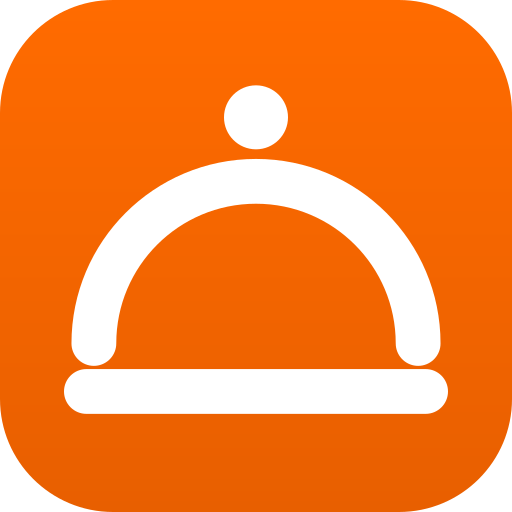
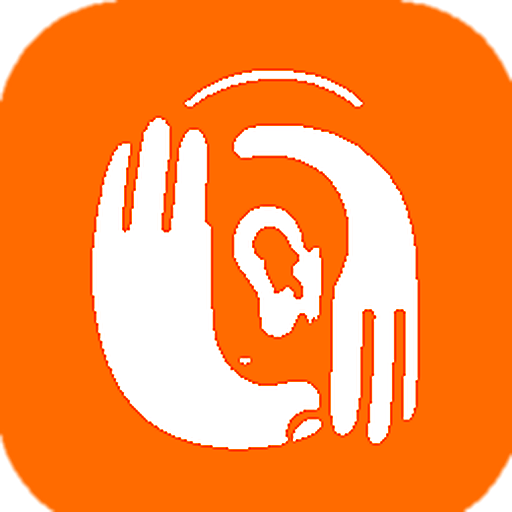
Rebrand a Oído + nuevo isotipo (mano + oreja) en toda la app (#118)
* rebrand: Staffya pasa a llamarse Oido

El nombre nuevo sale del diseñador y es un acierto: "¡Oído!" es lo que grita
la cocina cuando recibe una comanda -- significa "te escuche y ya estoy en
eso". Resuelve en UNA palabra la tension que ART_DIRECTION §2.3 define como el
problema central de la marca: es confirmacion (confiable) y es accion
(rapido) al mismo tiempo. Y al ser jerga interna del rubro da una credibilidad
que ninguna marca inventada consigue.

29 archivos de codigo fuente. Texto visible, metadatos, manifest, emails
transaccionales y copy de producto.

## Lo que NO se toco, a proposito

- `staffya-backend.onrender.com`: es el nombre REAL del servicio en Render.
  Renombrarlo en el codigo rompe la app en produccion. Se cambia el dia que se
  recree el servicio, no antes.
- `staffya_current_location` y demas claves de sessionStorage: cambiarlas
  descartaria el estado de los usuarios que ya la tienen abierta.
- Los emails de fixtures de tests (@staffya.com): ruido sin valor.

## Detalle de marca

En texto visible el wordmark lleva tilde ("oído"), como en el diseño. Sin
tilde queda solo en contextos tecnicos (ids, clases, slugs).

## Pendiente

El dominio sigue apuntando a staffya.com.ar en robots, sitemap, metadataBase y
la pagina publica de turno. No se cambia a ciegas porque no se sabe si el
dominio nuevo esta registrado -- apuntar el sitemap a un dominio inexistente
es peor que dejarlo.
[…]

diff --git a/frontend/components/Logo.tsx b/frontend/components/Logo.tsx
@@ -1,70 +1,44 @@
-"use client";
-
-import { useId } from "react";
-
 /**
- * Marca Staffya: "la cloche" (campana de servicio), símbolo universal del
- * salón gastronómico premium. Geometría fija (spec de marca): pomo, domo y
- * plato en blanco. El mismo degradé naranja que --color-primary /
- * --color-primary-strong en globals.css (antes el SVG usaba el naranja
- * default de Tailwind, que no coincidía con el token real de la app).
+ * Marca Oído: mano ahuecada sobre la oreja (gesto de "¡oído!, va la orden"),
+ * placeholder rasterizado a partir del ícono real del diseñador — no es el
+ * SVG vectorial final (ver docs/BRIEF_IDENTIDAD_VISUAL.md y el pendiente de
+ * reemplazo por el export vectorial del diseñador). El asset fuente nunca
+ * se usa a más de 48px en el código, así que el raster no pierde nitidez.
  *
- * `LogoGlyph` es sólo el trazo (pomo + domo + plato), sin tile de fondo —
- * lo reusa SplashScreen sobre su propia tarjeta blanca. `LogoMark` agrega el
- * tile naranja (uso estándar: Navbar, favicon/app icons). `Logo` agrega el
- * wordmark y es el default export que ya consumen Navbar, login/register/
- * recuperar/restablecer y la landing.
+ * `LogoGlyph` es sólo el trazo (mano + oreja), sin tile de fondo — se tiñe
+ * del color pedido vía CSS mask (`logo-figure.png` sólo aporta la silueta
+ * en su canal alfa). Lo reusa SplashScreen/EmptyState sobre superficie
+ * neutra. `LogoMark` agrega el tile naranja ya horneado (uso estándar:
+ * Navbar, favicon/app icons). `Logo` agrega el wordmark y es el default
+ * export que ya consumen Navbar, login/register/recuperar/restablecer y la
+ * landing.
  */
 export function LogoGlyph({ size = 28, color = "#fff" }: { size?: number; color?: string }) {
   return (
-    <svg width={size} height={size} viewBox="0 0 24 24" fill="none" xmlns="http://www.w3.org/2000/svg" aria-hidden>
-      <circle cx="12" cy="5.5" r="1.5" fill={color} />
-      <path
-        d="M4.4 16.1 A 7.6 7.6 0 0 1 19.6 16.1"
-        stroke={color}
-        strokeWidth="2.1"
-        strokeLinecap="round"
-        fill="none"
-      />
-      <rect x="3" y="17.3" width="18" height="2.1" rx="1.05" fill={color} />
-    </svg>
+    <span
+      role="img"
+      aria-label="Oído"
+      style={{
+        display: "inline-block",
+        width: size,
+        height: size,
+        backgroundColor: color,
+        WebkitMaskImage: "url(/logo-figure.png)",
+        maskImage: "url(/logo-figure.png)",
+        WebkitMaskSize: "contain",
+        maskSize: "contain",
+        WebkitMaskRepeat: "no-repeat",
+        maskRepeat: "no-repeat",
+        WebkitMaskPosition: "center",
+        maskPosition: "center",
+      }}
+    />
   );
 }
 
 export function LogoMark({ size = 28 }: { size?: number }) {
-  const gradientId = useId();
-  return (
-    <svg
-      width={size}
-      height={size}
-      viewBox="0 0 24 24"
-      fill="none"
-      xmlns="http://www.w3.org/2000/svg"
-      role="img"
-      aria-label="Staffya"
-    >
-      <defs>
-        <linearGradient id={gradientId} x1="0" y1="0" x2="0" y2="24" gradientUnits="userSpaceOnUse">
-          <stop stopColor="#ff6b00" />
-          <stop offset="1" stopColor="#e85f00" />
-        </linearGradient>
-      </defs>
-      {/* Tile: cuadrado redondeado, rx ~22% del lado */}
-      <rect width="24" height="24" rx="5.3" fill={`url(#${gradientId})`} />
-      {/* Pomo */}
-      <circle cx="12" cy="5.5" r="1.5" fill="#fff" />
-      {/* Domo */}
-      <path
-        d="M4.4 16.1 A 7.6 7.6 0 0 1 19.6 16.1"
-        stroke="#fff"
-        strokeWidth="2.1"
-        strokeLinecap="round"
-        fill="none"
-      />
-      {/* Plato base */}
-      <rect x="3" y="17.3" width="18" height="2.1" rx="1.05" fill="#fff" />
-    </svg>
-  );
+  // eslint-disable-next-line @next/next/no-img-element -- ícono chico (≤48px), no amerita next/image
+  return <img src="/logo-mark.png" width={size} height={size} alt="Oído" />;
 }
 
 export default function Logo({
@@ -78,9 +52,7 @@ export default function Logo({
     <span className="inline-flex items-center gap-2">
       <LogoMark size={size} />
       {withWordmark && (
-        <span className="text-xl font-extrabold tracking-tight text-ink">
-          staff<span className="text-primary-text">ya</span>
-        </span>
+        <span className="text-xl font-extrabold tracking-tight text-ink">oído</span>
       )}
     </span>
   );

diff --git a/frontend/app/terminos/page.tsx b/frontend/app/terminos/page.tsx
@@ -7,7 +7,7 @@ import { ChevronLeftIcon } from "@/components/icons";
 export const metadata: Metadata = {
   title: "Términos y Condiciones",
   description:
-    "Términos y Condiciones de uso de Staffya: qué es la plataforma, cuentas, publicación y postulación a turnos, reputación, suscripciones y más.",
+    "Términos y Condiciones de uso de Oído: qué es la plataforma, cuentas, publicación y postulación a turnos, reputación, suscripciones y más.",
 };
 
 const LAST_UPDATED = "Última actualización: julio 2026";
@@ -46,14 +46,14 @@ export default function TerminosPage() {
           </h1>
           <p className="mt-1 text-sm text-ink/40">{LAST_UPDATED}</p>
 
-          <Section title="Qué es Staffya">
+          <Section title="Qué es Oído">
             <p>
-              Staffya es una plataforma de intermediación: conecta comercios
+              Oído es una plataforma de intermediación: conecta comercios
               gastronómicos que necesitan cubrir turnos con trabajadores que
               quieren tomarlos. Ahí termina nuestro rol.
             </p>
             <p>
-              Staffya <strong>no es tu empleador</strong> ni el de nadie, y{" "}
+              Oído <strong>no es tu empleador</strong> ni el de nadie, y{" "}
               <strong>no es parte</strong> de la relación laboral o comercial
               que se arma entre el comercio y el trabajador. Tampoco
               garantizamos que un turno publicado se cubra, ni que un turno
@@ -64,7 +64,7 @@ export default function TerminosPage() {
 
           <Section title="Tu cuenta">
             <p>
-              Para usar Staffya tenés que ser mayor de 18 años y cargar datos
+              Para usar Oído tenés que ser mayor de 18 años y cargar datos
               reales tuyos o de tu comercio: nombre, contacto y lo que te
               pidamos en el perfil. Nada de datos inventados.
             </p>
@@ -75,7 +75,7 @@ export default function TerminosPage() {
             <p>
               El comercio define las condiciones del turno (posición,
               horario, paga, vestimenta) y le paga directamente al
-              trabajador — Staffya no procesa ni retiene esos pagos.
+              trabajador — Oído no procesa ni retiene esos pagos.
             </p>
             <p>
               El trabajador decide libremente si se postula o no a cada
@@ -126,7 +126,7 @@ export default function TerminosPage() {
               </li>
               <li>Acosar, amenazar o maltratar a otro usuario.</li>
               <li>
-                Usar Staffya para contactar a la otra parte y después mover
+                Usar Oído para contactar a la otra parte y después mover
                 todo por fuera de la plataforma con el único fin de evadir
                 sus reglas (reputación, seguridad, comisiones, etc.).
               </li>
@@ -139,7 +139,7 @@ export default function TerminosPage() {
 
           <Section title="Límite de responsabilidad">
             <p>
-              Staffya pone la infraestructura para conectar comercios y
+              Oído pone la infraestructura para conectar comercios y
               trabajadores, pero no responde por lo que pase durante el
               turno en sí: cumplimiento de horarios, condiciones de trabajo,
               pagos acordados o conflictos entre las partes. Esas
@@ -151,7 +151,7 @@ export default function TerminosPage() {
             <p>
               Podemos actualizar estos Términos con el tiempo. Si hacemos un
               cambio importante, te avisamos dentro de la app. Seguir usando
-              Staffya después de un aviso implica que aceptás la versión
+              Oído después de un aviso implica que aceptás la versión
               nueva.
             </p>
           </Section>

diff --git a/frontend/app/turno/[id]/page.tsx b/frontend/app/turno/[id]/page.tsx
@@ -42,12 +42,12 @@ export async function generateMetadata({
   const shift = await getPublicShift(id);
 
   if (!shift) {
-    return { title: "Turno no encontrado — Staffya" };
+    return { title: "Turno no encontrado — Oído" };
   }
 
   const title = `Buscamos ${SKILL_LABELS[shift.position]}${
     shift.company_name ? ` en ${shift.company_name}` : ""
-  } — Staffya`;
+  } — Oído`;
   const description = buildShiftSummary(shift);
   const url = await getPublicUrl(id);
 
@@ -58,7 +58,7 @@ export async function generateMetadata({
       title,
       description,
       url,
-      siteName: "Staffya",
+      siteName: "Oído",
       locale: "es_AR",
       type: "website",
     },
@@ -128,7 +128,7 @@ export default async function PublicShiftPage({
             href="/register?rol=trabajador"
             className="mt-6 flex min-h-[56px] w-full items-center justify-center rounded-full bg-primary px-6 text-base font-bold text-ink shadow-[0_8px_20px_rgba(255,107,0,0.28)] transition active:scale-[0.98]"
           >
-            Postulate en Staffya
+            Postulate en Oído
           </Link>
           <p className="mt-3 text-center text-xs text-ink/40">
             Creá tu perfil gratis y postulate a este y otros turnos gastronómicos.

diff --git a/frontend/components/candidate/GuaranteeCard.tsx b/frontend/components/candidate/GuaranteeCard.tsx
@@ -1,14 +1,14 @@
 import { ShieldIcon, CheckIcon } from "@/components/icons";
 
 /**
- * "Garantía Staffya": le pone palabras a mecanismos que ya existen (no-show
+ * "Garantía Oído": le pone palabras a mecanismos que ya existen (no-show
  * reabre el turno, reputación real, chat previo) para dar la misma tranquilidad
  * que transmite Clickie con su "Garantía". Es sólo copy de confianza — no hay
  * lógica nueva detrás.
  */
 const POINTS = [
   "Si no se presenta, reabrís el turno y elegís a otro al instante — sin volver a publicar.",
-  "Puntualidad y reseñas reales, derivadas de turnos hechos en Staffya (no autodeclaradas).",
+  "Puntualidad y reseñas reales, derivadas de turnos hechos en Oído (no autodeclaradas).",
   "Podés chatear con el trabajador antes de confirmar la asignación.",
 ];
 
@@ -16,7 +16,7 @@ export default function GuaranteeCard() {
   return (
     <div className="rounded-[var(--radius-card)] bg-orange-50 p-4 ring-1 ring-orange-100">
       <p className="flex items-center gap-2 font-bold text-primary-text">
-        <ShieldIcon size={18} /> Garantía Staffya
+        <ShieldIcon size={18} /> Garantía Oído
       </p>
       <ul className="mt-2.5 space-y-1.5">
         {POINTS.map((point) => (

diff --git a/frontend/public/sw.js b/frontend/public/sw.js
@@ -19,7 +19,7 @@ self.addEventListener("push", (event) => {
   } catch {
     data = {};
   }
-  const title = data.title || "Staffya";
+  const title = data.title || "Oído";
   const url = data.url || "/";
   event.waitUntil(
     self.registration.showNotification(title, {
@@ -27,9 +27,10 @@ self.addEventListener("push", (event) => {
       icon: "/icon-192.png",
       // El badge (ícono chico de la barra de estado en Android) se dibuja
       // usando SÓLO el canal alfa: el sistema descarta los colores y pinta de
-      // blanco lo que sea opaco. `icon-192.png` es un tile naranja opaco de
-      // punta a punta, así que salía como un CUADRADO BLANCO sólido. Este
-      // badge tiene fondo transparente y sólo la cloche opaca.
+      // blanco lo que sea opaco. `icon-192.png` es el tile completo (naranja +
+      // trazo), así que como badge salía como una MANCHA blanca sin forma
+      // reconocible. Este badge tiene fondo transparente y sólo el trazo
+      // (mano + oreja) opaco, sin el tile de fondo.
       badge: "/badge-96.png",
       data: { url },
       // Tag ÚNICO por notificación. Antes todas compartían "staffya-push", así

diff --git a/frontend/app/layout.tsx b/frontend/app/layout.tsx
@@ -24,12 +24,12 @@ const DESCRIPTION =
 
 export const metadata: Metadata = {
   metadataBase: new URL("https://staffya.com.ar"),
-  title: { default: `staffya — ${TAGLINE}`, template: "%s — Staffya" },
+  title: { default: `oído — ${TAGLINE}`, template: "%s — Oído" },
   description: DESCRIPTION,
-  applicationName: "Staffya",
+  applicationName: "Oído",
   appleWebApp: {
     capable: true,
-    title: "Staffya",
+    title: "Oído",
     statusBarStyle: "default",
   },
   icons: {
@@ -41,16 +41,16 @@ export const metadata: Metadata = {
     apple: [{ url: "/apple-icon.png", sizes: "180x180", type: "image/png" }],
   },
   openGraph: {
-    title: `staffya — ${TAGLINE}`,
+    title: `oído — ${TAGLINE}`,
     description: DESCRIPTION,
-    siteName: "Staffya",
+    siteName: "Oído",
     locale: "es_AR",
     type: "website",
     images: [{ url: "/og-image.png", width: 1200, height: 630, alt: TAGLINE }],
   },
   twitter: {
     card: "summary_large_image",
-    title: `staffya — ${TAGLINE}`,
+    title: `oído — ${TAGLINE}`,
     description: DESCRIPTION,
     images: ["/og-image.png"],
   },

diff --git a/frontend/app/privacidad/page.tsx b/frontend/app/privacidad/page.tsx
@@ -7,7 +7,7 @@ import { ChevronLeftIcon } from "@/components/icons";
 export const metadata: Metadata = {
   title: "Política de Privacidad",
   description:
-    "Política de Privacidad de Staffya: qué datos recopilamos, para qué los usamos y con quién los compartimos. No vendemos tus datos, nunca.",
+    "Política de Privacidad de Oído: qué datos recopilamos, para qué los usamos y con quién los compartimos. No vendemos tus datos, nunca.",
 };
 
 const LAST_UPDATED = "Última actualización: julio 2026";
@@ -58,7 +58,7 @@ export default function PrivacidadPage() {
 
           <Section title="Quién es responsable de tus datos">
             <p>
-              Staffya es responsable de los datos que cargás en la app. Para
+              Oído es responsable de los datos que cargás en la app. Para
               cualquier consulta, ejercicio de derechos o reclamo sobre tus
               datos, escribinos por el chat de soporte dentro de la app.
             </p>

diff --git a/frontend/components/SplashScreen.tsx b/frontend/components/SplashScreen.tsx
@@ -15,7 +15,7 @@ const MAX_VISIBLE_MS = 6000;
 
 /**
  * Pantalla de bienvenida de marca: fondo naranja, logo que entra con un
- * "pop" + anillos pulsantes y el nombre Staffya. Se muestra una vez por
+ * "pop" + anillos pulsantes y el nombre Oído. Se muestra una vez por
  * sesión (al abrir la app).
  *
  * Se queda visible mientras dura la coreografía de entrada Y la sesión
@@ -105,7 +105,7 @@ export default function SplashScreen() {
             transition={reducedMotion ? { duration: 0 } : { delay: 0.35, duration: 0.5 }}
             className="relative mt-6 text-4xl font-extrabold tracking-tight text-white"
           >
-            staff<span className="text-orange-200">ya</span>
+            oído
           </motion.h1>
           <motion.p
             initial={reducedMotion ? false : { y: 12, opacity: 0 }}

diff --git a/frontend/components/ShiftPublishedNextSteps.tsx b/frontend/components/ShiftPublishedNextSteps.tsx
@@ -6,7 +6,7 @@ import { cn } from "@/lib/cn";
 
 // "Esto es lo que sigue" tras publicar un turno (inspiración de UX: Clickie
 // muestra, apenas se genera un pedido, una pantalla clara de qué sigue en el
-// ciclo — trasladamos esa claridad acá con la marca naranja de Staffya).
+// ciclo — trasladamos esa claridad acá con la marca naranja de Oído).
 // Reemplaza el cartel de una línea del launch-gate (#88, "Ya estás buscando
 // personal..."): esa versión sólo se mostraba UNA vez en la vida de la
 // cuenta (localStorage). Esta es más rica (los 4 pasos concretos que

diff --git a/frontend/components/candidate/CandidateSignals.tsx b/frontend/components/candidate/CandidateSignals.tsx
@@ -44,7 +44,7 @@ export function topReasons(s: CandidateSignals, max = 3): Reason[] {
     reasons.push({ Icon: ClockIcon, label: `Muy puntual (${formatPunctuality(s.punctuality_rate)})` });
   }
   if (s.events_completed >= 10) {
-    reasons.push({ Icon: CheckCircleIcon, label: `${s.events_completed} turnos en Staffya` });
+    reasons.push({ Icon: CheckCircleIcon, label: `${s.events_completed} turnos en Oído` });
   }
   if (s.rating >= 4.5 && s.events_completed >= 1) {
     reasons.push({ Icon: StarIcon, label: "Muy bien calificado" });

diff --git a/frontend/components/ShiftLifecycleStepper.tsx b/frontend/components/ShiftLifecycleStepper.tsx
@@ -52,7 +52,7 @@ function inferDeathStep(shift: ShiftForStepper): number {
 
 /**
  * Stepper horizontal compacto del ciclo de vida del turno (inspirado en el
- * tracker de pedido de Clickie, trasladado a la marca naranja de Staffya):
+ * tracker de pedido de Clickie, trasladado a la marca naranja de Oído):
  * numeritos en círculo unidos por una línea, paso actual resaltado, pasos
  * completados con check. Cancelado: se corta (línea punteada) y el hito
  * donde murió se reemplaza por un marcador rojo "Cancelado" — no se agrega

diff --git a/frontend/lib/shift-share.ts b/frontend/lib/shift-share.ts
@@ -45,7 +45,7 @@ export function shareShift(shift: ShareableShift, publicUrl: string): void {
   const text = buildShiftShareText(shift, publicUrl);
 
   if (typeof navigator !== "undefined" && "share" in navigator) {
-    navigator.share({ title: "Staffya", text, url: publicUrl }).catch(() => {
+    navigator.share({ title: "Oído", text, url: publicUrl }).catch(() => {
       // El usuario canceló el share sheet o el navegador lo rechazó: no hay
       // nada más que hacer, no es un error real.
     });
